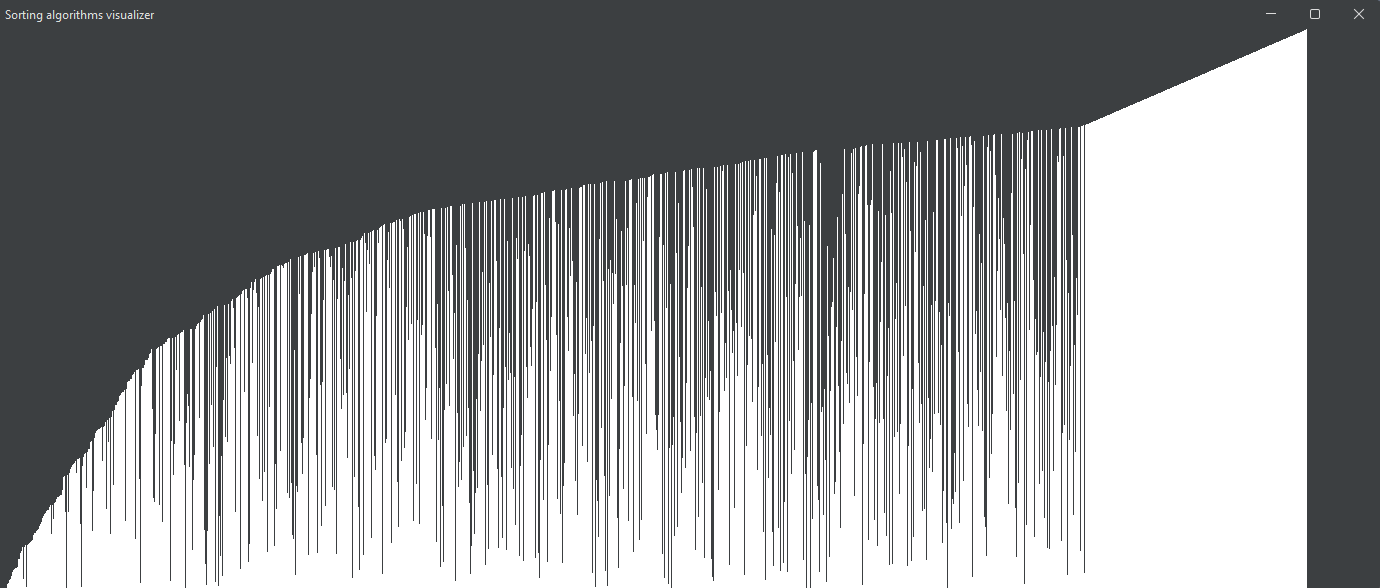
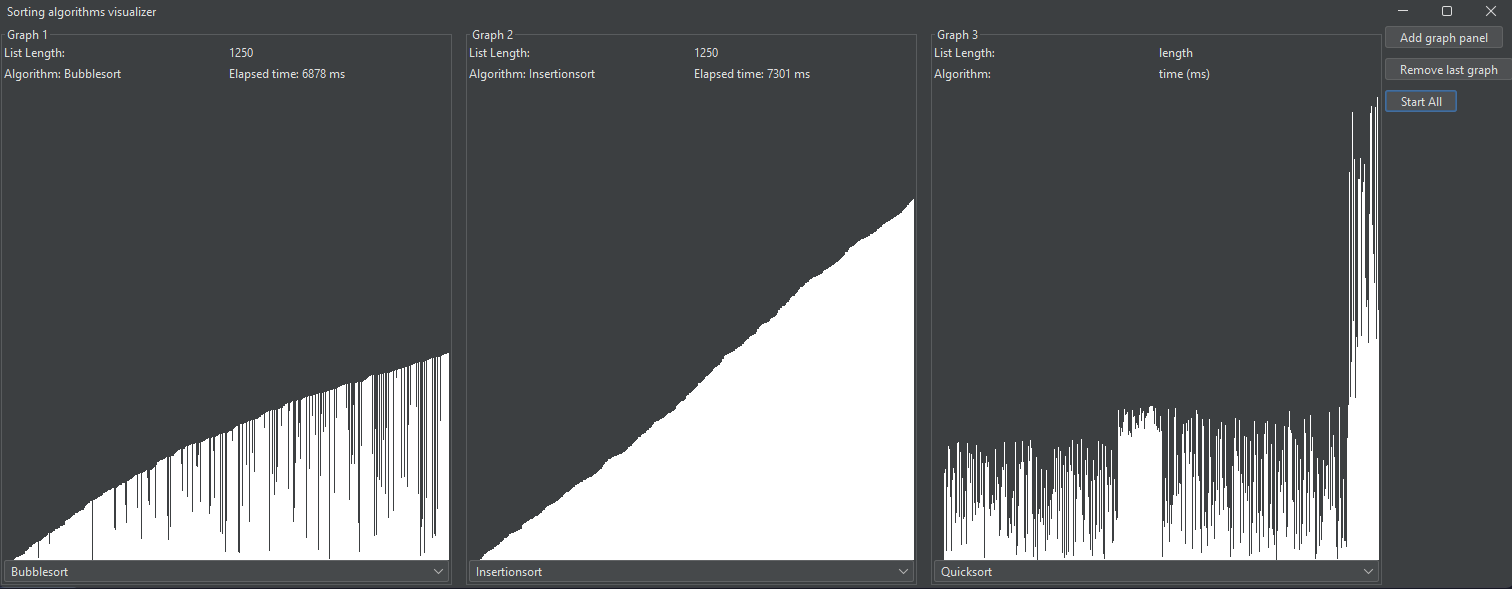
feat: implement comparison of multiple graphs simultaneously. Closes #15

diff --git a/src/main/java/Main.java b/src/main/java/Main.java
@@ -2,11 +2,21 @@ import com.formdev.flatlaf.FlatDarkLaf;
 
 import javax.swing.*;
 import java.awt.*;
+import java.awt.event.ActionEvent;
+import java.awt.event.ActionListener;
+import java.util.ArrayList;
 
 public class Main {
+    private static final int MAX_PANELS = 4;
+
+    private static ArrayList<UIPanel> uiPanels = new ArrayList<>();
+    private static ArrayList<JPanel> existingGraphs =  new ArrayList<>();
+    private static JPanel centerPanel;
+    private static JButton addPanelButton; //
+    private static JButton removePanelButton;
+
     public static void main(String[] args) {
         FlatDarkLaf.setup();
-        System.out.println("This is a sorting algorithm visualizer");
 
         JFrame frame = new JFrame();
         frame.setDefaultCloseOperation(JFrame.EXIT_ON_CLOSE);
@@ -14,15 +24,132 @@ public class Main {
         frame.getContentPane().setLayout(new BorderLayout());
         frame.setBounds(100, 100, 1400, 600);
 
-        StatisticsPanel statisticsPanel = new StatisticsPanel();
-        frame.getContentPane().add(statisticsPanel, BorderLayout.NORTH);
+        centerPanel = new JPanel();
+        centerPanel.setLayout(new GridLayout(1, 0, 10, 10));
+        frame.getContentPane().add(centerPanel, BorderLayout.CENTER);
 
-        GraphPanel panel = new GraphPanel(NumberGenerator.DATA_ARRAY_LENGTH, statisticsPanel);
-        frame.getContentPane().add(panel, BorderLayout.CENTER);
+        JPanel controlPanel = new JPanel();
+        controlPanel.setLayout(new BoxLayout(controlPanel, BoxLayout.Y_AXIS));
 
-        UIPanel uiPanel = new UIPanel(panel);
-        frame.getContentPane().add(uiPanel, BorderLayout.LINE_END);
+        addPanelButton = new JButton("Add Graph Panel");
+        JButton startAllButton = new JButton("Start All");
+        removePanelButton = new JButton("Remove last graph");
+
+        if (uiPanels.size() == 1) {
+            removePanelButton.setEnabled(false);
+            return;
+        }
+
+        addPanelButton.addActionListener(new ActionListener() {
+            @Override
+            public void actionPerformed(ActionEvent e) {
+                addNewGraphPanel();
+                updateButtonStates();
+            }
+        });
+
+        removePanelButton.addActionListener(new ActionListener() {
+            @Override
+            public void actionPerformed(ActionEvent e) {
+                removeLastPanel();
+                updateButtonStates();
+            }
+        });
+
+        startAllButton.addActionListener(new ActionListener() {
+            @Override
+            public void actionPerformed(ActionEvent e) {
+                startAllSorting();
+            }
+        });
+
+        controlPanel.add(addPanelButton);
+        controlPanel.add(Box.createRigidArea(new Dimension(0, 10)));
+        controlPanel.add(removePanelButton);
+        controlPanel.add(Box.createRigidArea(new Dimension(0, 10)));
+        controlPanel.add(startAllButton);
+
+        frame.getContentPane().add(controlPanel, BorderLayout.LINE_END);
+
+        addNewGraphPanel(); // one Graph must be there by default
+        updateButtonStates();
 
         frame.setVisible(true);
     }
+
+    private static void addNewGraphPanel() {
+
+        if (uiPanels.size() >= MAX_PANELS) {
+            JOptionPane.showMessageDialog(null,
+                    "Maximum " + MAX_PANELS + " Graphs allowed.",
+                    "Limit reached",
+                    JOptionPane.WARNING_MESSAGE);
+            addPanelButton.setEnabled(false);
+            return; //
+        }
+
+        JPanel containerPanel = new JPanel();
+        containerPanel.setLayout(new BorderLayout());
+        containerPanel.setBorder(BorderFactory.createTitledBorder("Graph " + (uiPanels.size() + 1)));
+
+        StatisticsPanel statisticsPanel = new StatisticsPanel();
+        GraphPanel graphPanel = new GraphPanel(NumberGenerator.DATA_ARRAY_LENGTH, statisticsPanel);
+        UIPanel uiPanel = new UIPanel(graphPanel);
+
+        containerPanel.add(statisticsPanel, BorderLayout.NORTH);
+        containerPanel.add(graphPanel, BorderLayout.CENTER);
+        containerPanel.add(uiPanel, BorderLayout.SOUTH);
+
+        centerPanel.add(containerPanel);
+        uiPanels.add(uiPanel);
+        existingGraphs.add(containerPanel);
+
+        if (uiPanels.size() >= MAX_PANELS) {
+            addPanelButton.setEnabled(false);
+            addPanelButton.setText("Max number of panels reached");
+        }
+
+        centerPanel.revalidate();
+        centerPanel.repaint();
+    }
+
+    private static void startAllSorting() {
+        for (UIPanel uiPanel : uiPanels) {
+            uiPanel.startSorting();
+        }
+    }
+
+    private static void removeLastPanel() {
+        if (uiPanels.isEmpty()) {
+            return;
+        }
+
+        int lastIndex = uiPanels.size() - 1;
+
+        uiPanels.remove(lastIndex);
+        JPanel containerToRemove = existingGraphs.remove(lastIndex);
+
+        centerPanel.remove(containerToRemove);
+        centerPanel.revalidate();
+        centerPanel.repaint();
+    }
+
+    private static void updateButtonStates() {
+
+        if (uiPanels.size() >= MAX_PANELS) {
+            addPanelButton.setEnabled(false);
+        } else {
+            addPanelButton.setEnabled(true);
+            addPanelButton.setText("Add graph panel");
+        }
+
+
+        if (uiPanels.size() <= 1) {
+            removePanelButton.setEnabled(false);
+        } else {
+            removePanelButton.setEnabled(true);
+            removePanelButton.setText("Remove last graph");
+        }
+    }
+
 }

diff --git a/src/main/java/UIPanel.java b/src/main/java/UIPanel.java
@@ -1,29 +1,44 @@
 import javax.swing.*;
+import java.awt.*;
 import java.awt.event.ActionEvent;
 import java.awt.event.ActionListener;
 import java.util.Arrays;
 
-public class UIPanel extends JPanel implements ActionListener {
+public class UIPanel extends JPanel {
     String[] algorithmOptions;
     JComboBox<String> comboBox;
     GraphPanel graphPanel;
+    private String selectedAlgorithm;
 
     public UIPanel(GraphPanel graphPanel){
+        setLayout(new BoxLayout(this, BoxLayout.Y_AXIS));
+
         this.graphPanel = graphPanel;
         algorithmOptions = new String[]{"Quicksort", "Insertionsort", "Bubblesort", "Selectionsort"};
         Arrays.sort(algorithmOptions);
+
         comboBox = new JComboBox<>(algorithmOptions);
         comboBox.setSelectedIndex(0);
-        comboBox.addActionListener(this);
+        selectedAlgorithm = (String)comboBox.getSelectedItem(); //preselect first algorithm, otherwise error if user doesn't pick an algorithm before starting the sort
 
+
+        // ComboBox memorizes selected algorithm for actual execution by button later
+        comboBox.addActionListener(new ActionListener() {
+            @Override
+            public void actionPerformed(ActionEvent e) {
+                selectedAlgorithm = (String)comboBox.getSelectedItem();
+            }
+        });
         add(comboBox);
     }
 
-    @Override
-    public void actionPerformed(ActionEvent e) {
-        JComboBox cb = (JComboBox)e.getSource();
-        String algorithmSelected = (String)cb.getSelectedItem();
+    // used by Jbutton
+    public void startSorting() {
+        graphPanel.startSorting(selectedAlgorithm);
+    }
 
-        graphPanel.startSorting(algorithmSelected);
+    // makes this currently used GraphPanel available for use outside
+    public GraphPanel getGraphPanel() {
+        return graphPanel;
     }
 }

diff --git a/src/main/java/GraphPanel.java b/src/main/java/GraphPanel.java
@@ -1,7 +1,6 @@
 import javax.swing.*;
 import java.awt.*;
 import java.util.ArrayList;
-import java.util.Collections;
 
 public class GraphPanel extends JPanel {
     private static final int BAR_WIDTH = 1;
@@ -21,8 +20,6 @@ public class GraphPanel extends JPanel {
         // reset data to unsorted list before sorting
         numberList = new ArrayList<>(originalList);
         repaint();
-
-
 
         new Thread(() -> {
 
@@ -44,6 +41,9 @@ public class GraphPanel extends JPanel {
                 case "Selectionsort":
                     SelectionSort selectionSorter = new SelectionSort();
                     selectionSorter.selectionSort(numberList, this);
+                    break;
+                default:
+                    System.out.println("No algorithm selected yet");
                     break;
             }
 
@@ -94,7 +94,5 @@ private void updateStatistics(String algorithm, long timeMs) {
             g2d.fillRect(x, y, BAR_WIDTH, barHeight);
 
         }
-
     }
-
 }

diff --git a/src/main/java/StatisticsPanel.java b/src/main/java/StatisticsPanel.java
@@ -8,8 +8,7 @@ public class StatisticsPanel extends JPanel {
     private JLabel dataArrayLengthNumberLabel;
 
     public StatisticsPanel(){
-        setLayout(new GridLayout(3, 1, 5, 5));
-        //setLayout(new BoxLayout(this, BoxLayout.X_AXIS));
+        setLayout(new GridLayout(2, 2, 5, 5));
 
         dataArrayLengthLabel = new JLabel("List Length: ");
         algorithmLabel = new JLabel("Algorithm: ");
